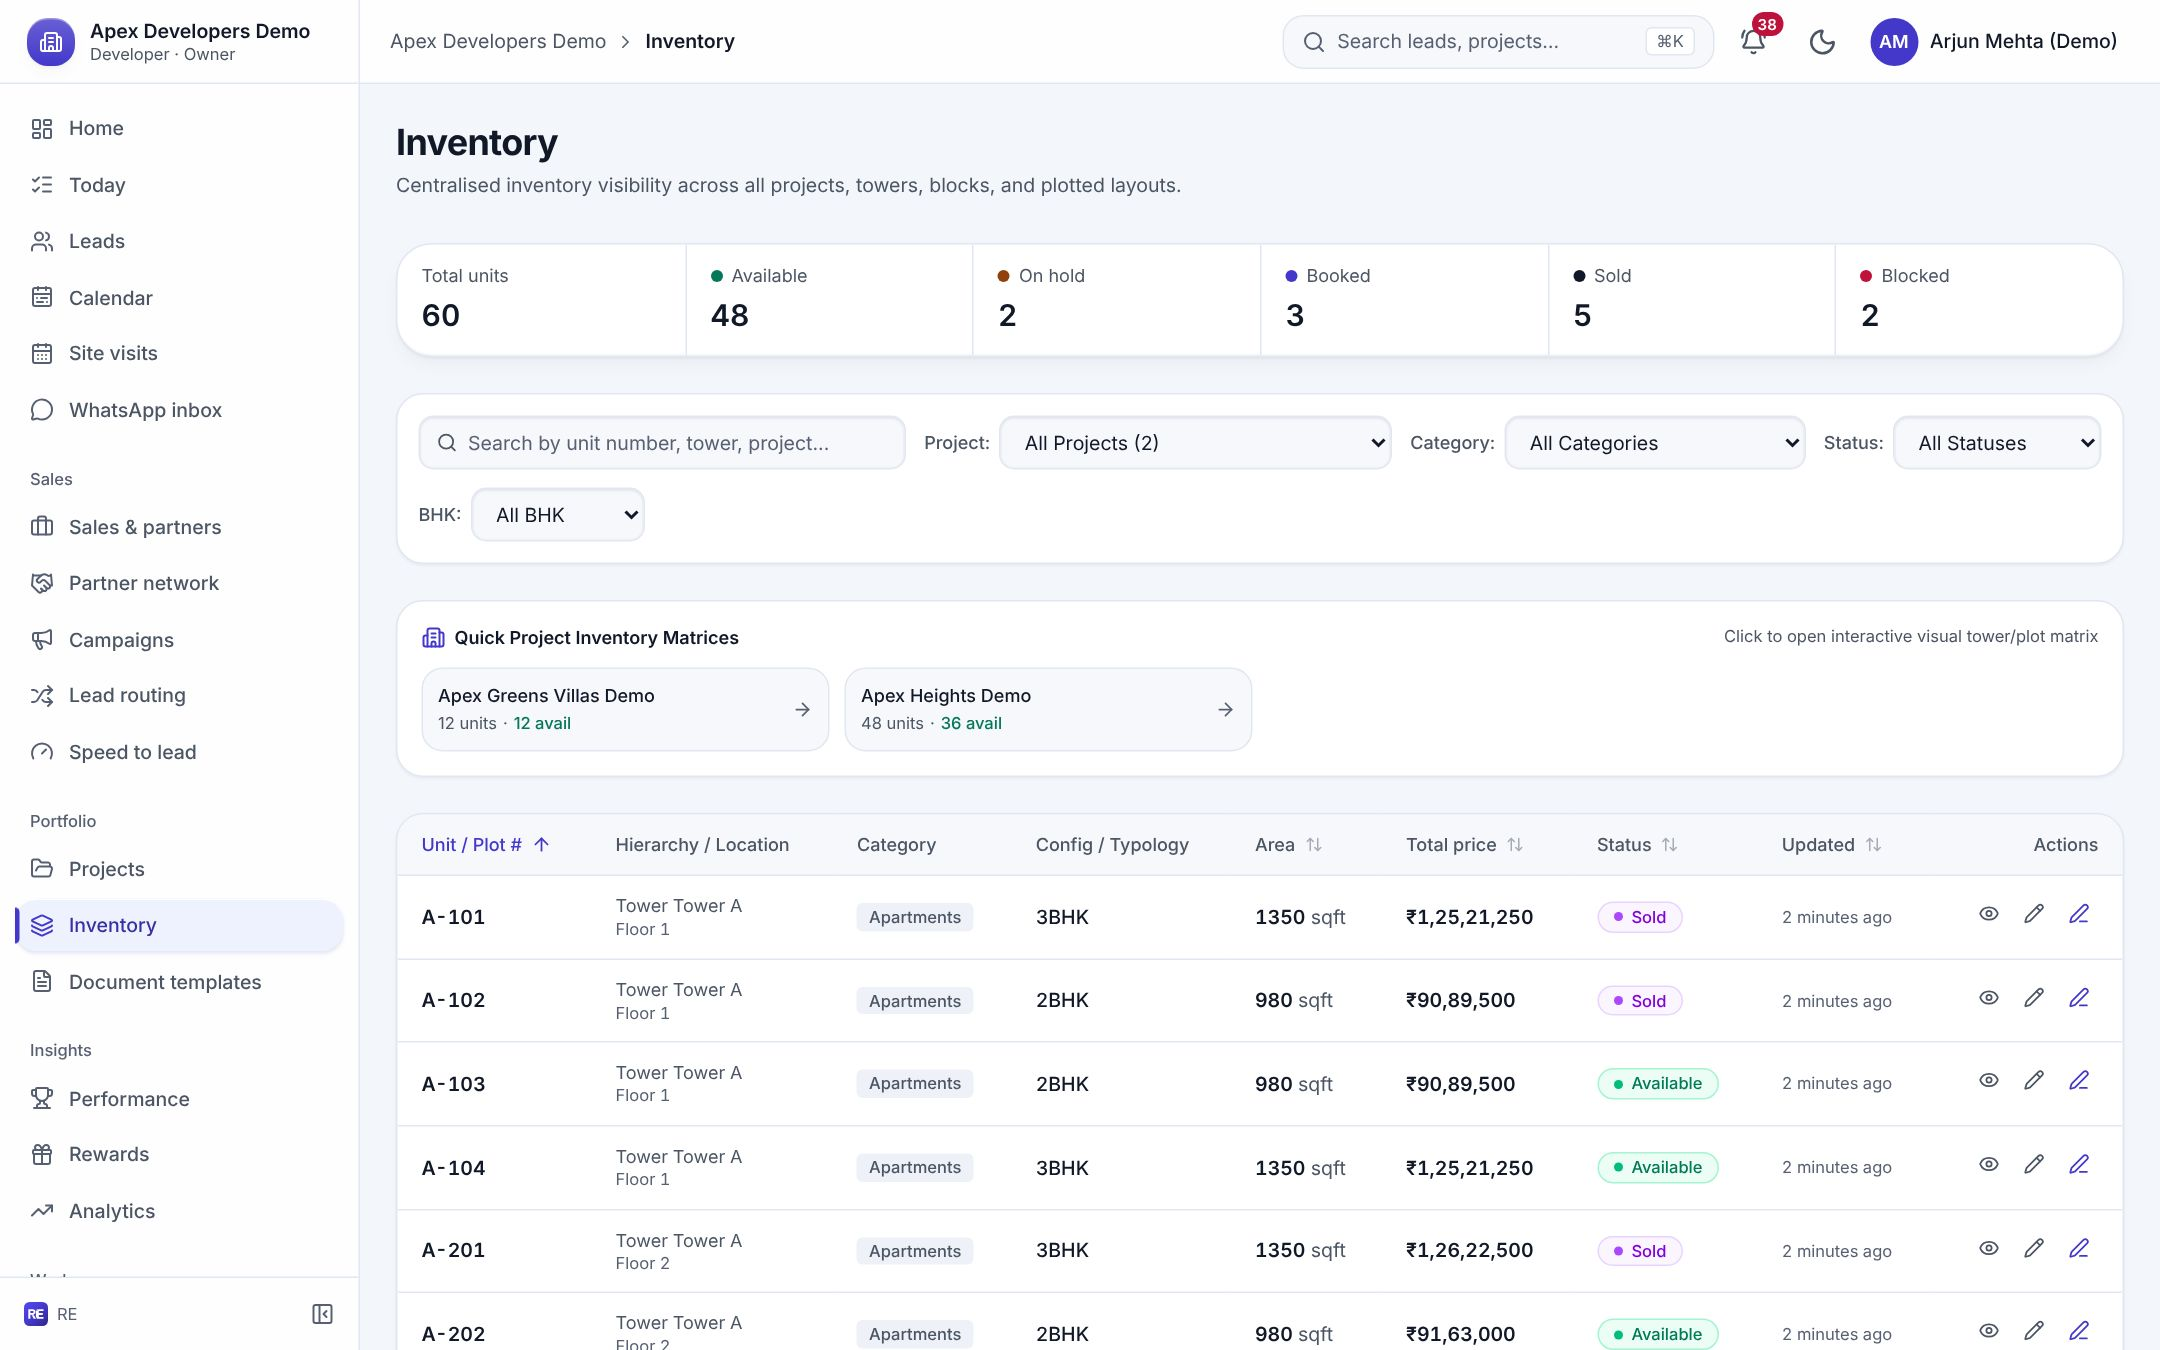
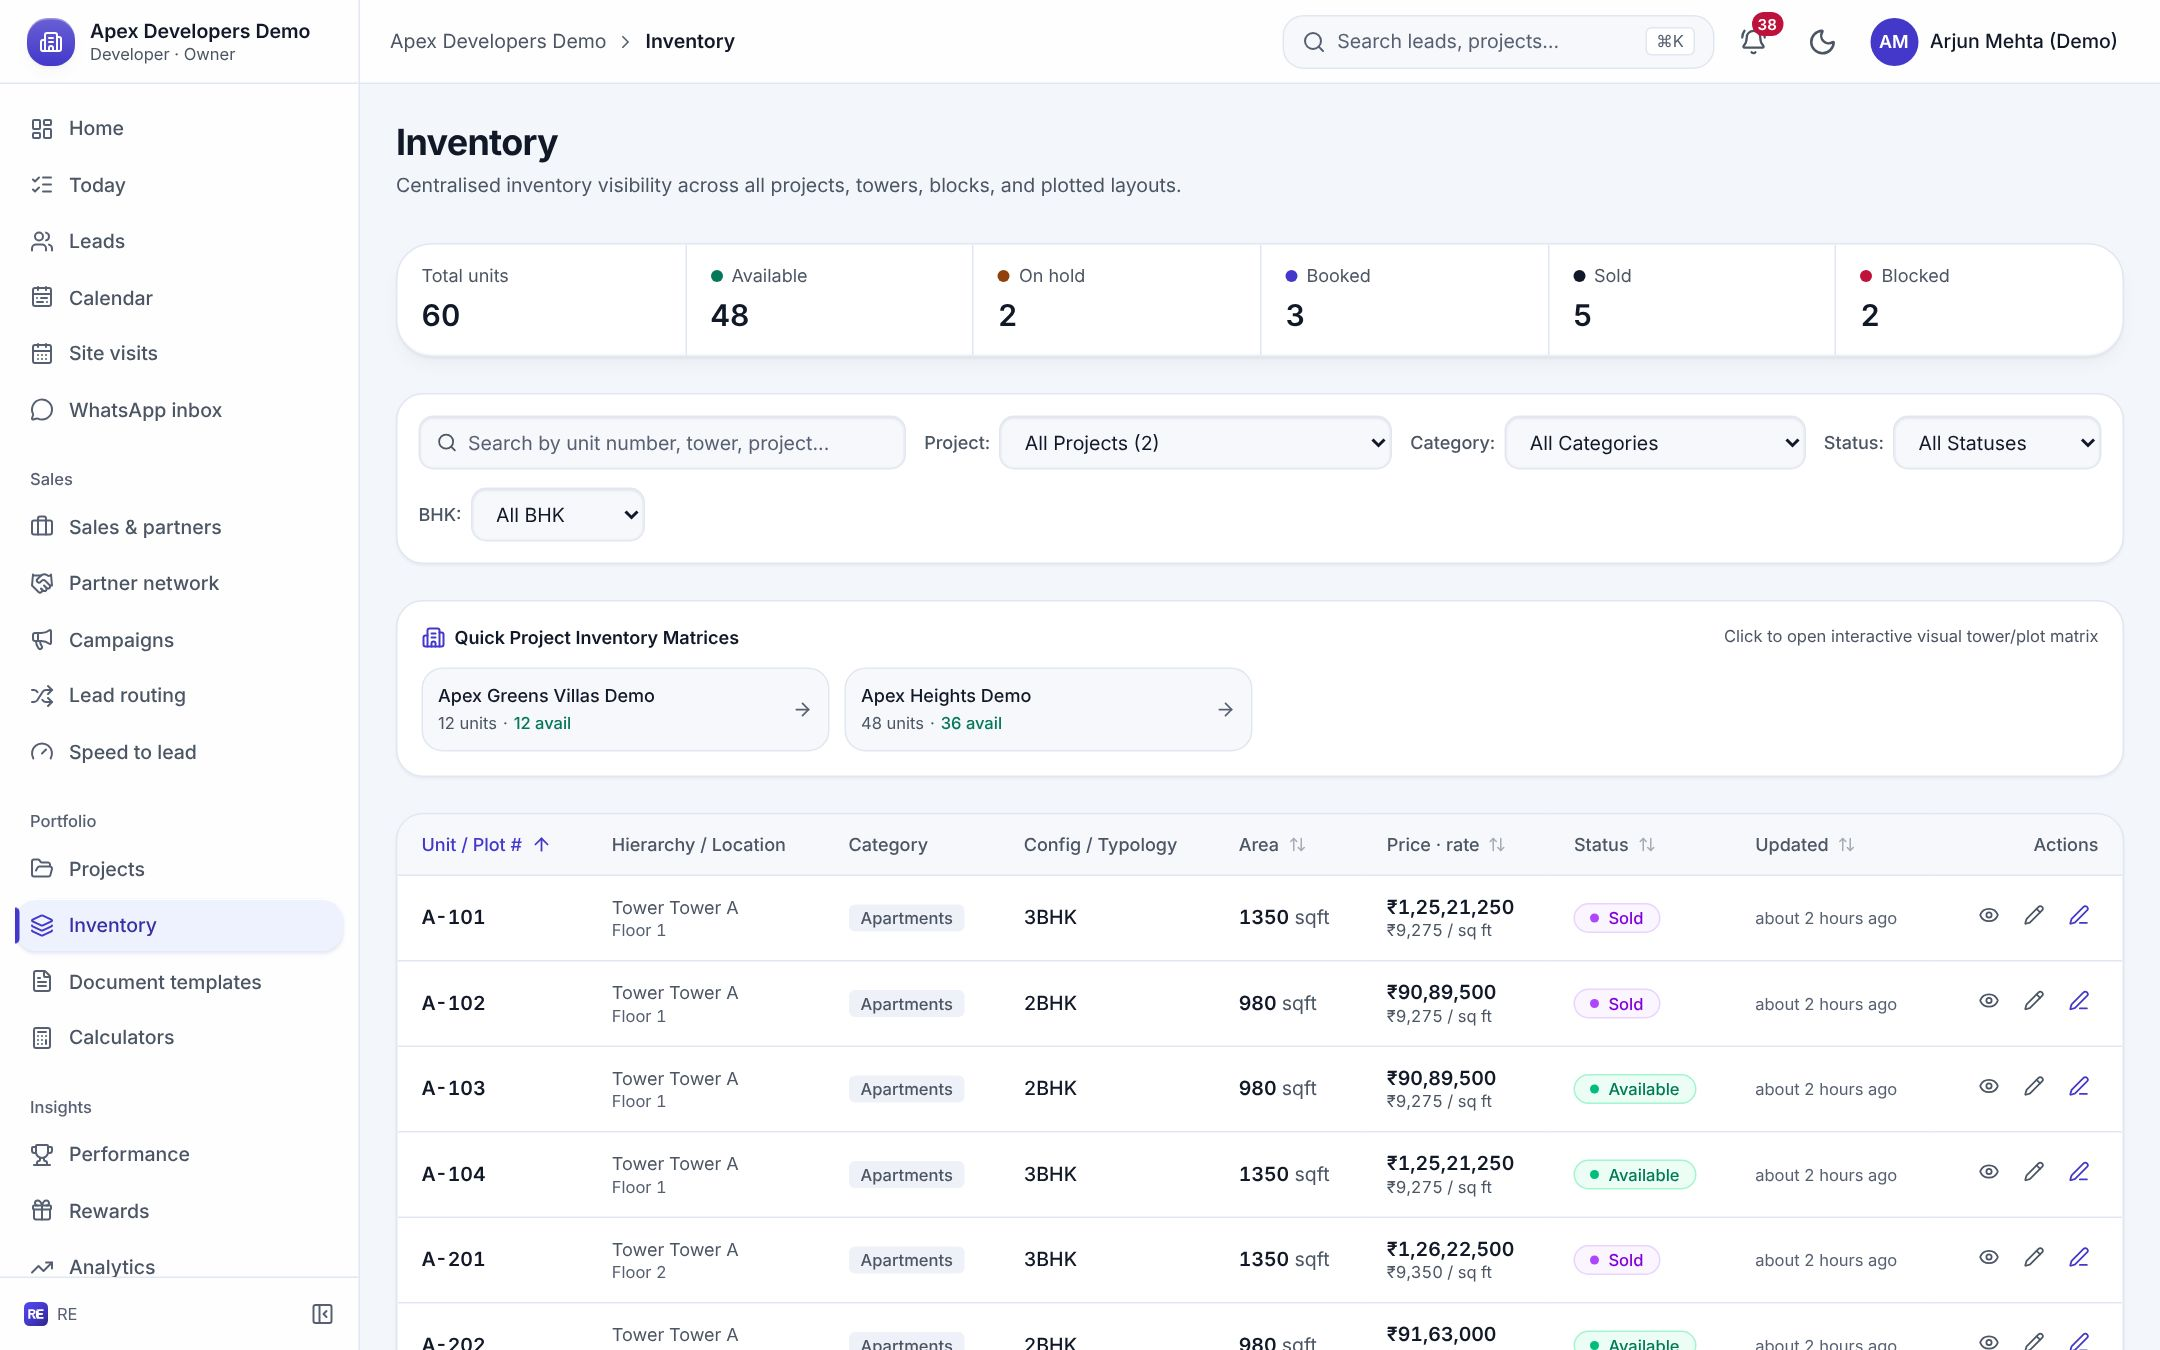
Tour: 3D plot map with compass, live calculators, calendar sync & alerts, rate per sq ft
- Plot map step opens in 3D (compass, lift-out plots) and lists the buyer-detail switches.
- New live step: the sales calculators (cost sheet, EMI, affordability, area units) with sample charges.
- New step: calendar sync to Apple/Google/Outlook and phone alerts (fresh screenshot).
- Inventory screenshot now shows the rate per sq ft. PlotMap gains initial3d.

Claude-Session: https://claude.ai/code/session_01NnzKUNTVU8ii3d7KGLGxGP

diff --git a/app/tour/page.tsx b/app/tour/page.tsx
@@ -9,7 +9,7 @@ import { ProductTour, type TourStep } from '@/components/marketing/ProductTour'
 
 export const metadata: Metadata = {
   title: { absolute: `Product tour — see ${PRODUCT_NAME} with sample data` },
-  description: 'Click through RE with sample data: the morning dashboard, a lead from first call to site visit, routing, inventory, a live plot map, and channel partners — no sign-up.',
+  description: 'Click through RE with sample data: the morning dashboard, a lead from first call to site visit, routing, inventory, a live 3D plot map, sales calculators, calendar sync and channel partners — no sign-up.',
   alternates: { canonical: '/tour' },
 }
 
@@ -57,22 +57,44 @@ const STEPS: TourStep[] = [
   {
     id: 'inventory', nav: 'Inventory', image: '/tour/inventory.jpg',
     title: 'Live availability for every unit',
-    body: 'Projects, towers, floors and plots with prices and status. Holds expire on their own, so the availability your team quotes is always current.',
+    body: 'Projects, towers, floors and plots with price, rate per sq ft and status. Holds expire on their own, so the availability your team quotes is always current.',
     hotspots: [
       { x: 42, y: 22, title: 'At a glance', text: 'Available, on hold, booked, sold and blocked across all projects.' },
       { x: 29, y: 52, title: 'Tower and plot views', text: 'Open a project as a floor-by-floor tower or a plot map.' },
-      { x: 67, y: 74, title: 'Price and status', text: 'Every unit with its size, price and current status.' },
+      { x: 67, y: 74, title: 'Price and rate per sq ft', text: 'Every unit with its size, price, rate per sq ft and current status.' },
     ],
   },
   {
-    id: 'plot-map', nav: 'Plot map (try it)', live: 'plot-map',
-    title: 'A live plot map buyers can open on their phone',
-    body: 'Your approved layout becomes a clickable map: every plot coloured by its real status from inventory. Share the link with buyers and partners — it updates itself as plots are held, booked or sold. Try it: tap a plot, search, filter or zoom.',
+    id: 'plot-map', nav: 'Plot map in 3D (try it)', live: 'plot-map',
+    title: 'A live 3D plot map buyers can open on their phone',
+    body: 'Your approved layout becomes a clickable map, every plot coloured by its real status from inventory. In 3D each plot is a block that lifts out when tapped; drag to turn the layout, and the compass turns with it. Try it: tap a plot, search, filter, zoom or switch 3D off.',
     hotspots: [
+      { x: 0, y: 0, title: '3D, with a compass', text: 'Raised plot blocks, a turnable layout, and north marked the way the drawing faces.' },
       { x: 0, y: 0, title: 'Always current', text: 'Each plot is linked to its unit, so the colour is the live status.' },
-      { x: 0, y: 0, title: 'One link for buyers', text: 'Opens on any phone, no app; enquiries and site visits come back as leads.' },
-      { x: 0, y: 0, title: 'Prices your choice', text: 'Show prices, or availability only.' },
-      { x: 0, y: 0, title: 'On your website', text: 'Embed the same map on your project page.' },
+      { x: 0, y: 0, title: 'You choose what buyers see', text: 'Price, rate per sq ft, area, facing, road width, corner — switch each on or off.' },
+      { x: 0, y: 0, title: 'One link for buyers', text: 'Opens on any phone, no app; enquiries and site visits come back as leads. Embed it on your website too.' },
+    ],
+  },
+  {
+    id: 'calculators', nav: 'Calculators (try it)', live: 'calculators',
+    title: 'Cost sheet, EMI and affordability — in front of the buyer',
+    body: 'Salespeople answer the money questions on the spot: the full cost with GST, stamp duty and registration, the home-loan EMI, and what the buyer can afford. Then send it on WhatsApp. Try it: slide the numbers.',
+    hotspots: [
+      { x: 0, y: 0, title: 'Full cost sheet', text: 'Area × rate, parking, club, floor rise, GST, stamp duty and registration — with the all-in rate per sq ft.' },
+      { x: 0, y: 0, title: 'Loan EMI', text: 'EMI, total interest and a year-by-year balance chart.' },
+      { x: 0, y: 0, title: 'Affordability and area units', text: 'The loan a buyer may get from their income; sq ft, gaj, acre, gunta, cent.' },
+      { x: 0, y: 0, title: 'Your numbers', text: 'Admins set the bank rate, taxes and standard charges once; everyone starts from them.' },
+    ],
+  },
+  {
+    id: 'calendar', nav: 'Calendar & alerts', image: '/tour/calendar-sync.jpg',
+    title: 'Never miss a follow-up — on phone or computer',
+    body: 'Every follow-up and site visit lands in the calendar app your team already uses, with a reminder before it. New leads arrive as phone alerts the moment they come in, even with RE closed.',
+    hotspots: [
+      { x: 35, y: 50, title: 'Apple Calendar', text: 'iPhone, iPad and Mac, in one tap.' },
+      { x: 50, y: 50, title: 'Google Calendar', text: 'On Android phones and any computer.' },
+      { x: 65, y: 50, title: 'Outlook', text: 'For teams on Microsoft.' },
+      { x: 47, y: 55, title: 'Private to each person', text: 'Only their own follow-ups; the link can be replaced or switched off.' },
     ],
   },
   {
@@ -102,7 +124,7 @@ export default function TourPage() {
         <p className="text-[13px] font-semibold text-[var(--brand)]">Product tour · about 2 minutes</p>
         <h1 className="mt-2 max-w-3xl text-[32px] font-extrabold leading-tight tracking-tight sm:text-[40px]">See {PRODUCT_NAME} the way your team will use it</h1>
         <p className="mt-3 max-w-2xl text-[16px] leading-relaxed text-muted">
-          Real screens with sample data, plus a live plot map you can click. Tap the numbered dots, or use the arrow keys. Every name and number shown is fictional.
+          Real screens with sample data, plus a live 3D plot map and calculators you can use. Tap the numbered dots, or use the arrow keys. Every name and number shown is fictional.
         </p>
         <div className="mt-10"><ProductTour steps={STEPS} /></div>
         <div className="ceramic mt-14 flex flex-col items-start gap-4 rounded-2xl p-6 sm:flex-row sm:items-center sm:justify-between">

diff --git a/components/marketing/ProductTour.tsx b/components/marketing/ProductTour.tsx
@@ -1,7 +1,7 @@
 'use client'
 // components/marketing/ProductTour.tsx — the website's click-through product tour: real RE screens with fictional
 // sample data (captured from the demo seed), one step per screen, with numbered hotspots that explain what to look at.
-// Keyboard: ← / → move between steps. No sign-in, no live data.
+// Keyboard: ← / → move between steps. No sign-in; the plot map and calculators are live with sample data.
 import { useCallback, useEffect, useState } from 'react'
 import Image from 'next/image'
 import Link from 'next/link'
@@ -9,9 +9,11 @@ import { ArrowLeft, ArrowRight } from 'lucide-react'
 import { cn } from '@/lib/utils/cn'
 import { PlotMap } from '@/components/plots/PlotMap'
 import { sampleLayout } from '@/lib/plots/sample'
+import { Calculators } from '@/components/calculators/Calculators'
+import { DEFAULT_CALCULATORS } from '@/lib/calculators/settings'
 
 interface Hotspot { x: number; y: number; title: string; text: string }
-export interface TourStep { id: string; image?: string; nav: string; title: string; body: string; hotspots: Hotspot[]; /** A live, clickable component instead of a screenshot. */ live?: 'plot-map' }
+export interface TourStep { id: string; image?: string; nav: string; title: string; body: string; hotspots: Hotspot[]; /** A live, clickable component instead of a screenshot. */ live?: 'plot-map' | 'calculators' }
 
 const SAMPLE_MAP = sampleLayout()
 
@@ -57,7 +59,11 @@ export function ProductTour({ steps }: { steps: TourStep[] }) {
           </div>
           {step.live === 'plot-map' ? (
             <div className="p-2 sm:p-4">
-              <PlotMap mode="public" {...SAMPLE_MAP} showPrices contact={{ phone: null, projectName: 'Sample Enclave', orgName: 'Sample Developers' }} />
+              <PlotMap mode="public" {...SAMPLE_MAP} showPrices northDeg={20} initial3d contact={{ phone: null, projectName: 'Sample Enclave', orgName: 'Sample Developers' }} />
+            </div>
+          ) : step.live === 'calculators' ? (
+            <div className="p-3 sm:p-5">
+              <Calculators defaults={{ ...DEFAULT_CALCULATORS, charges: [{ label: 'Car parking', kind: 'fixed', amount: 300000 }, { label: 'Club membership', kind: 'fixed', amount: 150000 }, { label: 'Floor rise / PLC', kind: 'per_area', amount: 75 }] }} />
             </div>
           ) : (
           <div className="relative">

diff --git a/components/plots/PlotMap.tsx b/components/plots/PlotMap.tsx
@@ -44,9 +44,11 @@ export interface PlotMapProps {
   enquiryToken?: string
   /** Compass: degrees clockwise from up that north points on this drawing (0 = north is up). */
   northDeg?: number
+  /** Open in the 3D view (the website tour). */
+  initial3d?: boolean
 }
 
-export function PlotMap({ mode, viewBox, geometry, plots, showPrices, unitHref, contact, image, enquiryToken, northDeg = 0 }: PlotMapProps) {
+export function PlotMap({ mode, viewBox, geometry, plots, showPrices, unitHref, contact, image, enquiryToken, northDeg = 0, initial3d = false }: PlotMapProps) {
   const statusLabels = useStatusLabels()
   const labelOf = (st: string) => statusLabels[st as keyof typeof statusLabels] ?? statusOf(st).label
   const base = useMemo(() => viewBox.split(' ').map(Number) as [number, number, number, number], [viewBox])
@@ -55,7 +57,7 @@ export function PlotMap({ mode, viewBox, geometry, plots, showPrices, unitHref, 
   const [hidden, setHidden] = useState<Set<string>>(new Set())
   const [query, setQuery] = useState('')
   // 3D view: the layout tilted, each plot a raised block (selected ones lift further); drag turns it.
-  const [is3d, setIs3d] = useState(false)
+  const [is3d, setIs3d] = useState(initial3d)
   const [spin, setSpin] = useState(-25)
   const svgRef = useRef<SVGSVGElement>(null)
   const drag = useRef<{ x: number; y: number; view: typeof base; moved: boolean } | null>(null)
